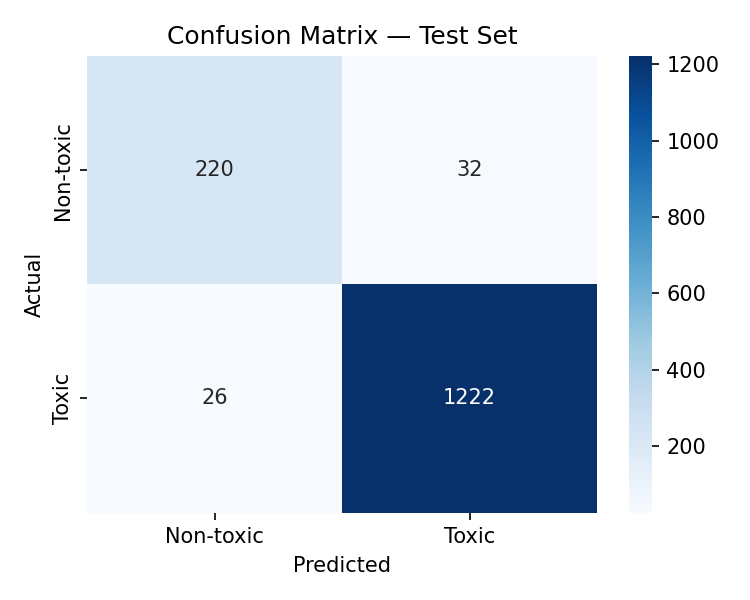
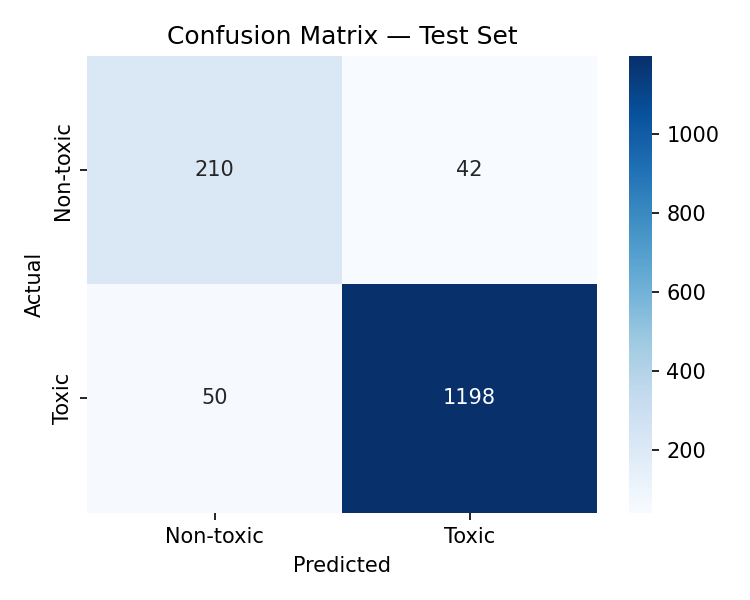
Fixed trainer.py with val_loss early stopping + dropout regularisation Update scheduler.py to support param_groups

diff --git a/src/training/trainer.py b/src/training/trainer.py
@@ -2,6 +2,20 @@
 training/trainer.py
 -------------------
 Training loop with early stopping, checkpointing, and history tracking.
+
+Overfitting mitigations applied
+--------------------------------
+1. Early stopping on **val_loss** (not val_F1).
+   Val loss rising while F1 creeps up is the classic sign that the model
+   is memorising training data. Watching val_loss catches this earlier.
+
+2. Classifier-head **dropout** injected before the linear layer.
+   DistilBERT's default pre-classifier dropout is 0.2; we expose it as a
+   configurable parameter so it can be tuned without changing the backbone.
+
+3. **Differential learning rates** — the backbone gets a 10x smaller lr
+   than the classification head. This prevents the pre-trained
+   representations from being overwritten too quickly on small datasets.
 """
 
 from __future__ import annotations
@@ -9,7 +23,7 @@ from __future__ import annotations
 import time
 from dataclasses import dataclass, field
 from pathlib import Path
-from typing import Dict, List, Optional
+from typing import List, Optional
 
 import torch
 import torch.nn as nn
@@ -23,7 +37,7 @@ from utils.logger import get_logger
 logger = get_logger(__name__)
 
 
-# ── Result container ──────────────────────────────────────────────────────
+# ── Result containers ─────────────────────────────────────────────────────
 
 @dataclass
 class EpochRecord:
@@ -39,8 +53,37 @@ class TrainingResult:
     history: List[EpochRecord] = field(default_factory=list)
     best_checkpoint: Optional[Path] = None
     best_val_f1: float = 0.0
+    best_val_loss: float = float("inf")
     best_epoch: int = 0
     elapsed_minutes: float = 0.0
+
+
+# ── Helpers ───────────────────────────────────────────────────────────────
+
+def set_classifier_dropout(model: nn.Module, dropout: float) -> None:
+    """
+    Set the dropout rate on DistilBERT's pre-classifier layer.
+
+    DistilBERT's DistilBertForSequenceClassification has a dedicated
+    pre_classifier Linear layer followed by a dropout module.
+    Increasing dropout from the default 0.2 toward 0.3-0.4 is the lightest
+    regularisation lever available without changing the backbone.
+
+    Parameters
+    ----------
+    model : nn.Module
+        A HuggingFace DistilBertForSequenceClassification instance.
+    dropout : float
+        Dropout probability to apply (e.g. 0.3).
+    """
+    if hasattr(model, "dropout"):
+        model.dropout.p = dropout
+        logger.info("Set classifier dropout to %.2f", dropout)
+    else:
+        logger.warning(
+            "Could not find model.dropout — dropout rate unchanged. "
+            "This may happen with non-DistilBERT architectures."
+        )
 
 
 # ── Trainer ───────────────────────────────────────────────────────────────
@@ -57,13 +100,21 @@ class Trainer:
     device : torch.device
     epochs : int
     learning_rate : float
+        Learning rate applied to the classification head.
+        The backbone receives learning_rate / backbone_lr_factor.
+    backbone_lr_factor : float
+        Divisor applied to learning_rate for backbone parameters.
+        Default 10 means the backbone trains 10x slower than the head,
+        preserving pre-trained representations on small datasets.
     weight_decay : float
     warmup_ratio : float
     grad_clip : float
-        Max gradient norm for clipping (prevents exploding gradients during
-        transformer fine-tuning).
+    classifier_dropout : float
+        Dropout probability on the pre-classifier layer.
+        Increase from 0.2 (default) toward 0.4 to combat overfitting.
     patience : int
-        Early stopping: stop if val F1 does not improve for this many epochs.
+        Early stopping patience measured in epochs.
+        Triggers when val_loss does not decrease (not val_F1).
     checkpoint_dir : str | Path
     log_every_n_steps : int
     """
@@ -76,9 +127,11 @@ class Trainer:
         device: torch.device,
         epochs: int = 3,
         learning_rate: float = 2e-5,
+        backbone_lr_factor: float = 10.0,
         weight_decay: float = 0.01,
         warmup_ratio: float = 0.10,
         grad_clip: float = 1.0,
+        classifier_dropout: float = 0.3,
         patience: int = 2,
         checkpoint_dir: str | Path = "checkpoints",
         log_every_n_steps: int = 50,
@@ -93,6 +146,37 @@ class Trainer:
         self.checkpoint_dir = Path(checkpoint_dir)
         self.log_every_n_steps = log_every_n_steps
 
+        # Apply dropout regularisation to the classifier head
+        set_classifier_dropout(self.model, classifier_dropout)
+
+        # ── Differential learning rates ───────────────────────────────────
+        # Backbone (distilbert.*) gets lr / backbone_lr_factor.
+        # Classifier head (pre_classifier.*, classifier.*) gets full lr.
+        # This prevents catastrophic forgetting of pre-trained features.
+        backbone_lr = learning_rate / backbone_lr_factor
+        param_groups = [
+            {
+                "params": [
+                    p for n, p in model.named_parameters()
+                    if "distilbert" in n
+                ],
+                "lr": backbone_lr,
+                "name": "backbone",
+            },
+            {
+                "params": [
+                    p for n, p in model.named_parameters()
+                    if "distilbert" not in n
+                ],
+                "lr": learning_rate,
+                "name": "head",
+            },
+        ]
+        logger.info(
+            "Differential LR | backbone=%.1e | head=%.1e",
+            backbone_lr, learning_rate,
+        )
+
         total_steps = len(train_loader) * epochs
         self.optimizer, self.scheduler = build_optimizer_and_scheduler(
             model=model,
@@ -100,22 +184,27 @@ class Trainer:
             weight_decay=weight_decay,
             warmup_ratio=warmup_ratio,
             total_steps=total_steps,
+            param_groups=param_groups,
         )
         logger.info(
-            "Trainer ready | epochs=%d | lr=%.1e | steps=%d",
-            epochs, learning_rate, total_steps,
+            "Trainer ready | epochs=%d | total_steps=%d | dropout=%.2f",
+            epochs, total_steps, classifier_dropout,
         )
 
     # ── public API ────────────────────────────────────────────────────────
 
     def fit(self) -> TrainingResult:
         """
-        Run the full training loop and return a :class:`TrainingResult`.
+        Run the full training loop.
+
+        Early stopping criterion: val_loss must decrease.
+        This catches the diverging-loss pattern observed in the run where
+        val_loss rose (0.129 -> 0.146 -> 0.161) even as val_F1 kept improving
+        marginally — a sign of overfitting masked by the metric.
 
         Returns
         -------
         TrainingResult
-            Contains per-epoch history, best checkpoint path, and timing.
         """
         result = TrainingResult()
         patience_counter = 0
@@ -136,42 +225,69 @@ class Trainer:
             )
             result.history.append(record)
 
+            # Log the train/val loss gap — a rising gap signals overfitting
+            # before it shows up in F1.
+            loss_gap = val_loss - train_loss
             logger.info(
-                "Epoch %d/%d | train_loss=%.4f | val_loss=%.4f | "
-                "val_F1=%.4f | val_AUROC=%.4f",
-                epoch, self.epochs, train_loss, val_loss, val_f1, val_auroc,
+                "Epoch %d/%d | train_loss=%.4f | val_loss=%.4f "
+                "(gap=+%.4f) | val_F1=%.4f | val_AUROC=%.4f",
+                epoch, self.epochs,
+                train_loss, val_loss, loss_gap, val_f1, val_auroc,
             )
+            if loss_gap > 0.05:
+                logger.warning(
+                    "val_loss - train_loss = %.4f > 0.05 — overfitting signal.",
+                    loss_gap,
+                )
 
-            # Checkpoint if best
+            # Always track best F1 for the final report
             if val_f1 > result.best_val_f1:
                 result.best_val_f1 = val_f1
+
+            # ── Early stopping & checkpointing on val_loss ────────────────
+            # We checkpoint on val_loss (not val_F1) because val_loss rising
+            # while F1 inches up is the overfitting pattern we observed:
+            # val_loss: 0.129 -> 0.146 -> 0.161 across 3 epochs.
+            if val_loss < result.best_val_loss:
+                result.best_val_loss = val_loss
                 result.best_epoch = epoch
                 patience_counter = 0
                 ckpt = save_checkpoint(
                     self.model, self.checkpoint_dir, epoch, val_f1
                 )
                 result.best_checkpoint = ckpt
-                logger.info("New best — saved checkpoint: %s", ckpt.name)
+                logger.info(
+                    "New best val_loss=%.4f — saved: %s", val_loss, ckpt.name
+                )
             else:
                 patience_counter += 1
                 logger.info(
-                    "No improvement (%d/%d).", patience_counter, self.patience
+                    "val_loss did not improve (%d/%d).",
+                    patience_counter, self.patience,
                 )
                 if patience_counter >= self.patience:
-                    logger.info("Early stopping triggered at epoch %d.", epoch)
+                    logger.info(
+                        "Early stopping at epoch %d "
+                        "(val_loss has not improved for %d epochs).",
+                        epoch, self.patience,
+                    )
                     break
 
         result.elapsed_minutes = (time.time() - start) / 60
         logger.info(
-            "Training complete in %.1f min | best val_F1=%.4f at epoch %d",
-            result.elapsed_minutes, result.best_val_f1, result.best_epoch,
+            "Training complete in %.1f min | best val_loss=%.4f "
+            "| best val_F1=%.4f at epoch %d",
+            result.elapsed_minutes,
+            result.best_val_loss,
+            result.best_val_f1,
+            result.best_epoch,
         )
         return result
 
     # ── private helpers ───────────────────────────────────────────────────
 
     def _train_one_epoch(self, epoch: int) -> float:
-        """Run one full pass over *train_loader*; return mean loss."""
+        """Run one full pass over train_loader; return mean loss."""
         self.model.train()
         running_loss = 0.0
 
@@ -189,11 +305,10 @@ class Trainer:
             )
 
             # Loss: categorical cross-entropy
-            # L = -(1/N) * Σ_i Σ_{c} y_{i,c} · log( softmax(Wh_i + b)_c )
+            # L = -(1/N) * sum_i sum_c [ y_{i,c} * log(softmax(Wh_i+b)_c) ]
             loss = outputs.loss
             loss.backward()
 
-            # Gradient clipping — essential for stable transformer fine-tuning
             torch.nn.utils.clip_grad_norm_(
                 self.model.parameters(), max_norm=self.grad_clip
             )
@@ -203,10 +318,10 @@ class Trainer:
             running_loss += loss.item()
 
             if (step + 1) % self.log_every_n_steps == 0:
-                avg = running_loss / (step + 1)
                 logger.info(
                     "  Epoch %d | step %d/%d | loss=%.4f",
-                    epoch, step + 1, len(self.train_loader), avg,
+                    epoch, step + 1, len(self.train_loader),
+                    running_loss / (step + 1),
                 )
 
         return running_loss / len(self.train_loader)

diff --git a/src/training/scheduler.py b/src/training/scheduler.py
@@ -3,12 +3,14 @@ training/scheduler.py
 ---------------------
 Optimizer and learning-rate scheduler factory.
 
-Centralising these here means hyperparameter changes (lr, weight_decay,
-warmup_ratio) only need to be made in the config, not scattered across
-training code.
+Supports per-parameter-group learning rates (differential LR) via the
+optional param_groups argument, which is used by Trainer to give the
+backbone a smaller lr than the classification head.
 """
 
 from __future__ import annotations
+
+from typing import List, Optional
 
 import torch.nn as nn
 from torch.optim import AdamW
@@ -21,36 +23,44 @@ def build_optimizer_and_scheduler(
     weight_decay: float,
     warmup_ratio: float,
     total_steps: int,
+    param_groups: Optional[List[dict]] = None,
 ):
     """
     Build AdamW optimizer and a linear warmup + decay scheduler.
-
-    The learning-rate schedule is:
-    - Linear warmup from 0 → *learning_rate* over the first
-      ``warmup_ratio * total_steps`` steps.
-    - Linear decay from *learning_rate* → 0 over the remaining steps.
 
     Parameters
     ----------
     model : nn.Module
     learning_rate : float
-        Peak learning rate (e.g. 2e-5).
+        Peak learning rate. Used as the default if param_groups is None,
+        and as the reference rate for scheduler scaling when it is not.
     weight_decay : float
         L2 regularisation coefficient (e.g. 0.01).
     warmup_ratio : float
-        Fraction of total steps used for warmup (e.g. 0.10).
+        Fraction of total steps used for linear warmup (e.g. 0.10).
     total_steps : int
-        Total number of gradient update steps across all epochs.
+        Total gradient update steps across all epochs.
+    param_groups : List[dict] | None
+        Optional list of per-group dicts with 'params' and 'lr' keys,
+        used for differential learning rates (backbone vs head).
+        When None, all model parameters use learning_rate.
 
     Returns
     -------
     Tuple[AdamW, LambdaLR]
     """
-    optimizer = AdamW(
-        model.parameters(),
-        lr=learning_rate,
-        weight_decay=weight_decay,
-    )
+    if param_groups is not None:
+        # Attach weight_decay to each group that does not override it
+        for group in param_groups:
+            group.setdefault("weight_decay", weight_decay)
+        optimizer = AdamW(param_groups)
+    else:
+        optimizer = AdamW(
+            model.parameters(),
+            lr=learning_rate,
+            weight_decay=weight_decay,
+        )
+
     warmup_steps = int(total_steps * warmup_ratio)
     scheduler = get_linear_schedule_with_warmup(
         optimizer,
